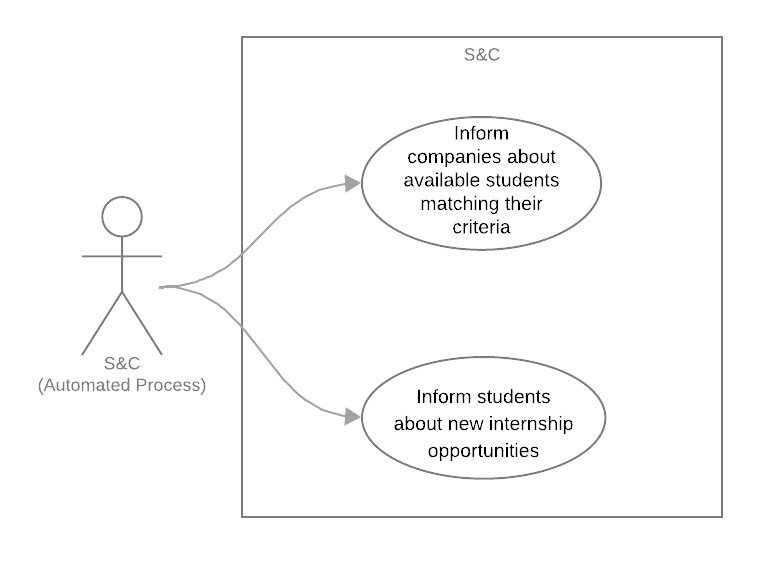
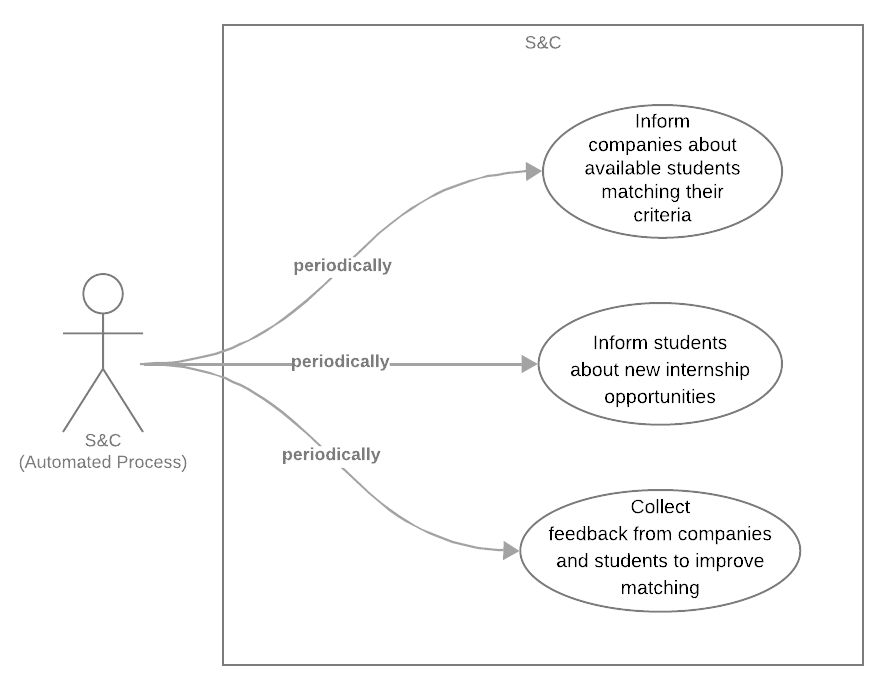
Fixed use case diagrams and sequence diagrams

diff --git a/RASD/LaTeX/Chapters/3_Specific_Requirements.tex b/RASD/LaTeX/Chapters/3_Specific_Requirements.tex
@@ -90,31 +90,15 @@ The communication interfaces needed by the system include the HTTPS protocol for
 
 \begin{figure}[H]
     \begin{center}
-        \includegraphics[width=0.6\linewidth]{UseCaseDiagrams/Student.png}
-        \caption{Use Cases Diagram for students.} 
-        \label{fig:StudentUC}%
+        \includegraphics[width=\linewidth]{UseCaseDiagrams/Company_Student_University.png}
+        \caption{Use Cases Diagram for company, student and university.} 
+        \label{fig:Company_Student_UniversityUC}%
     \end{center}
 \end{figure}
 
 \begin{figure}[H]
     \begin{center}
-        \includegraphics[width=0.8\linewidth]{UseCaseDiagrams/Company.png}
-        \caption{Use Cases Diagram for companies.} 
-        \label{fig:CompanyUC}%
-    \end{center}
-\end{figure}
-
-\begin{figure}[H]
-    \begin{center}
-        \includegraphics[width=0.6\linewidth]{UseCaseDiagrams/University.png}
-        \caption{Use Cases Diagram for universities.} 
-        \label{fig:UniversityUC}%
-    \end{center}
-\end{figure}
-
-\begin{figure}[H]
-    \begin{center}
-        \includegraphics[width=0.6\linewidth]{UseCaseDiagrams/SeC.png}
+        \includegraphics[width=0.8\linewidth]{UseCaseDiagrams/SeC.png}
         \caption{Use Cases Diagram for S\&C.} 
         \label{fig:SeCUC}%
     \end{center}
@@ -217,7 +201,7 @@ FATTO DA MIRKO SU DRRIVE
 
 \begin{figure}[H]
     \begin{center}
-        \includesvg[width=0.8\textwidth]{SequenceDiagrams/View_And_Update.svg}
+        \includesvg[width=0.9\textwidth]{SequenceDiagrams/View_And_Update.svg}
         \caption{View and update profile sequence diagram.}
         \label{fig:view_update_profile_seqd}%
     \end{center}
@@ -248,7 +232,7 @@ FATTO DA MIRKO SU DRRIVE
 
 \begin{figure}[H]
     \begin{center}
-        \includesvg[width=0.8\textwidth]{SequenceDiagrams/Search_Internships.svg}
+        \includesvg[width=\textwidth]{SequenceDiagrams/Search_Internships.svg}
         \caption{Search for internships sequence diagram.}
         \label{fig:search_internships_seqd}%
     \end{center}
@@ -280,7 +264,7 @@ FATTO DA MIRKO SU DRRIVE
 
 \begin{figure}[H]
     \begin{center}
-        \includesvg[width=0.8\textwidth]{SequenceDiagrams/Apply_Internship.svg}
+        \includesvg[width=0.9\textwidth]{SequenceDiagrams/Apply_Internship.svg}
         \caption{Apply for an internship sequence diagram.}
         \label{fig:apply_internship_seqd}%
     \end{center}
@@ -310,7 +294,7 @@ FATTO DA MIRKO SU DRRIVE
 
 \begin{figure}[H]
     \begin{center}
-        \includesvg[width=1\textwidth]{SequenceDiagrams/Monitor_Status.svg}
+        \includesvg[width=0.9\textwidth]{SequenceDiagrams/Monitor_Status.svg}
         \caption{Monitor the status of their applications sequence diagram.}
         \label{fig:monitor_status_seqd}%
     \end{center}
@@ -322,7 +306,7 @@ FATTO DA MIRKO SU DRRIVE
         \hline
         \textbf{Actor}            & Student (ST) \\
         \hline
-        \textbf{Entry conditions} & The user is logged into S\&C and has received at least one internship offer. \\
+        \textbf{Entry conditions} & The user is logged into S\&C. \\
         \hline
         \textbf{Event Flow}       & 1 - The user navigates to the "Offers" section. \\
         & 2 - S\&C retrieves the list of received offers. \\
@@ -332,7 +316,8 @@ FATTO DA MIRKO SU DRRIVE
         \hline
         \textbf{Exit condition}   & The offer status is updated as accepted or rejected. \\       
         \hline
-        \textbf{Exceptions}       & - Offer expired: S\&C notifies the user. \\
+        \textbf{Exceptions}       & - No offers available: S\&C notifies the user. \\
+                                  & - Offer expired: S\&C notifies the user. \\
                                   & - System unavailable: S\&C informs the user and retries later. \\
         \hline
         \caption{Accept or reject internship offers}
@@ -342,7 +327,7 @@ FATTO DA MIRKO SU DRRIVE
 
 \begin{figure}[H]
     \begin{center}
-        \includesvg[width=0.8\textwidth]{SequenceDiagrams/Accept_Reject_Offers.svg}
+        \includesvg[width=0.9\textwidth]{SequenceDiagrams/Accept_Reject_Offers.svg}
         \caption{Accept or reject internship offers sequence diagram.}
         \label{fig:accept_reject_offers_seqd}%
     \end{center}
@@ -421,11 +406,11 @@ FATTO DA MIRKO SU DRIVE
         \hline
         \textbf{Entry conditions} & The CP is correctly logged in. The CP has decided to create a internship. The CP is on his profile page. \\
         \hline
-        \textbf{Event Flow}     & 1- The CP clicks on "Publish a Internship"                                button.\\
-                                & 2- S\&C returns the publish internship form.\\
-                                & 3- The CP writes the internship name, specify the application domain, tasks to be performed, relevant adopted technologies ad terms offered\\
-                                & 4- S\&C stores the data of the internship and add it to the CP's internship list\\
-                                & 5- S\&C sends a notication to the STs that might be interested.\\
+        \textbf{Event Flow}     & 1 - The CP clicks on "Publish a Internship"                                button.\\
+                                & 2 - S\&C returns the publish internship form.\\
+                                & 3 - The CP writes the internship name, specify the application domain, tasks to be performed, relevant adopted technologies ad terms offered\\
+                                & 4 - S\&C stores the data of the internship and add it to the CP's internship list\\
+                                & 5 - S\&C sends a notication to the STs that might be interested.\\
         \hline
         \textbf{Exit condition}   & The internship is correctly created and a confirmation message is shown to the CP. \\       
         \hline
@@ -438,7 +423,7 @@ FATTO DA MIRKO SU DRIVE
 
 \begin{figure}[H]
     \begin{center}
-        \includesvg[width=\textwidth]{SequenceDiagrams/Create_internship.svg}
+        \includesvg[width=\textwidth]{SequenceDiagrams/Create_Internship.svg}
         \caption{Create and publish internships sequence diagram.}
         \label{fig:create_internship_seqd}%
     \end{center}
@@ -455,10 +440,10 @@ FATTO DA MIRKO SU DRIVE
         \hline
         \textbf{Entry conditions} & The company is logged into S\&C and has at least one published internship.\\
         \hline
-        \textbf{Event Flow}     & 1- The company navigates to the "Published                              Internships" section. \\
-                                & 2- S\&C retrieves the list of internships published by the company. \\
-                                & 3- The company selects an internship to view its details. \\
-                                & 4- S\&C retrieves internship's details and the list of suggested students.\\
+        \textbf{Event Flow}     & 1 - The company navigates to the "Published                              Internships" section. \\
+                                & 2 - S\&C retrieves the list of internships published by the company. \\
+                                & 3 - The company selects an internship to view its details. \\
+                                & 4 - S\&C retrieves internship's details and the list of suggested students.\\
         \hline
         \textbf{Exit condition}     & The company successfully views the list of                                suggested students.\\       
         \hline
@@ -472,7 +457,7 @@ FATTO DA MIRKO SU DRIVE
 
 \begin{figure}[H]
     \begin{center}
-        \includesvg[width=\textwidth]{SequenceDiagrams/View_recommended_sudents.svg}
+        \includesvg[width=\textwidth]{SequenceDiagrams/View_Recommended_Students.svg}
         \caption{View recommended students for internships sequence diagram.}
         \label{fig:view_recommended_students_seqd}%
     \end{center}
@@ -486,11 +471,11 @@ FATTO DA MIRKO SU DRIVE
         \hline
         \textbf{Entry conditions} & The company is logged into S\&C. The company should be on a specific internship page to select a student’s name from the recommended students list.\\
         \hline
-        \textbf{Event Flow}     & 1- The company click on a student's name. \\
-                                & 2- S\&C returns the profile page of the selected student. \\
-                                & 3- The company click on the "invite" button. \\
-                                & 4- S\&C sends to the student a request of application.\\
-                                & 5- S\&C redirect the company to the "Progress Page" of the application.\\
+        \textbf{Event Flow}     & 1 - The company click on a student's name. \\
+                                & 2 - S\&C returns the profile page of the selected student. \\
+                                & 3 - The company click on the "invite" button. \\
+                                & 4 - S\&C sends to the student a request of application.\\
+                                & 5 - S\&C redirect the company to the "Progress Page" of the application.\\
         \hline
         \textbf{Exit condition}     & The company successfully views profile of                                the student and sends correctly the notification.\\       
         \hline
@@ -504,7 +489,7 @@ FATTO DA MIRKO SU DRIVE
 
 \begin{figure}[H]
     \begin{center}
-        \includesvg[width=\textwidth]{SequenceDiagrams/Contact_students.svg}
+        \includesvg[width=\textwidth]{SequenceDiagrams/Contact_Students.svg}
         \caption{Contact students for internships sequence diagram.}
         \label{fig:contact_students_for_internships_seqd}%
     \end{center}
@@ -518,16 +503,16 @@ FATTO DA MIRKO SU DRIVE
         \hline
         \textbf{Entry conditions} & The company is logged into S\&C. The company wants to review apply requests.\\
         \hline
-        \textbf{Event Flow}     & 1- The company navigates to the "Published                                                        Internships" section. \\
-                                & 2- S\&C retrieves the list of internships published by the company. \\
-                                & 3- The company selects an internship to view its details. \\
-                                & 4- S\&C retrieves internship's details and the list of apply requests.\\
-                                & 5- Company click on the students name.\\
-                                & 6- S\&C returns the profile page of the selected student.\\
-                                & 7- Company check the profile of the student and his CV.\\
-                                & 8- Company decide to accept or reject the apply request.\\
-                                & 9- S\&C send a notification to the student with the company’s decision.\\
-                                & 10- If the company has accepted, S\&C authorizes the assignment of tasks by the company.\\
+        \textbf{Event Flow}     & 1 - The company navigates to the "Published                                                        Internships" section. \\
+                                & 2 - S\&C retrieves the list of internships published by the company. \\
+                                & 3 - The company selects an internship to view its details. \\
+                                & 4 - S\&C retrieves internship's details and the list of apply requests.\\
+                                & 5 - Company click on the students name.\\
+                                & 6 - S\&C returns the profile page of the selected student.\\
+                                & 7 - Company check the profile of the student and his CV.\\
+                                & 8 - Company decide to accept or reject the apply request.\\
+                                & 9 - S\&C send a notification to the student with the company’s decision.\\
+                                & 10 - If the company has accepted, S\&C authorizes the assignment of tasks by the company.\\
         \hline
         \textbf{Exit condition}     & The company successfully accept the request and the student receive the notification.\\       
         \hline
@@ -541,7 +526,7 @@ FATTO DA MIRKO SU DRIVE
 
 \begin{figure}[H]
     \begin{center}
-        \includesvg[width=\textwidth]{SequenceDiagrams/Accept_student_applications.svg}
+        \includesvg[width=\textwidth]{SequenceDiagrams/Accept_Student_Applications.svg}
         \caption{Accept student applications sequence diagram.}
         \label{fig:accept_student_applications_seqd}%
     \end{center}
@@ -555,11 +540,11 @@ FATTO DA MIRKO SU DRIVE
         \hline
         \textbf{Entry conditions} & The company is logged into S\&C. The company wants to send questionnaires to students.\\
         \hline
-        \textbf{Event Flow}     & 1- The company goes to a student’s application "Progress Page". \\
-                                & 2- The company click the "create task" button. \\
-                                & 3- S\&C returns the task form.\\
-                                & 4- Company fill the form with task’s requirements, delivery instruction and deadline.\\
-                                & 5-  S\&C adds task to the Progress Page of the application and notify the ST about new assignments.\\
+        \textbf{Event Flow}     & 1 - The company goes to a student’s application "Progress Page". \\
+                                & 2 - The company click the "create task" button. \\
+                                & 3 - S\&C returns the task form.\\
+                                & 4 - Company fill the form with task’s requirements, delivery instruction and deadline.\\
+                                & 5 -  S\&C adds task to the Progress Page of the application and notify the ST about new assignments.\\
         \hline
         \textbf{Exit condition}     & The company successfully add the task and the student receive the notification.\\       
         \hline
@@ -573,7 +558,7 @@ FATTO DA MIRKO SU DRIVE
 
 \begin{figure}[H]
     \begin{center}
-        \includesvg[width=\textwidth]{SequenceDiagrams/Submit_questionnaires_for_students.svg}
+        \includesvg[width=\textwidth]{SequenceDiagrams/Submit_Questionnaires_Students.svg}
         \caption{Submit questionnaires for students sequence diagram.}
         \label{fig:submit_questionnaires_for_students_seqd}%
     \end{center}
@@ -587,12 +572,12 @@ FATTO DA MIRKO SU DRIVE
         \hline
         \textbf{Entry conditions} & The company is logged into S\&C. The company wants to finalize the selection process.\\
         \hline
-        \textbf{Event Flow}    & 1- The company navigates to the "Published                                                        Internships" section. \\
-                                & 2- S\&C retrieves the list of internships published by the company. \\
-                                & 3- The company selects an internship to view its details. \\
-                                & 4- S\&C retrieves internship's details and the list of applicant students.\\
-                                & 5- The company selects students.\\
-                                & 6- S\&C add selected student to the internship’s list and notifies both selected and rejected students.\\
+        \textbf{Event Flow}    & 1 - The company navigates to the "Published                                                        Internships" section. \\
+                                & 2 - S\&C retrieves the list of internships published by the company. \\
+                                & 3 - The company selects an internship to view its details. \\
+                                & 4 - S\&C retrieves internship's details and the list of applicant students.\\
+                                & 5 - The company selects students.\\
+                                & 6 - S\&C add selected student to the internship’s list and notifies both selected and rejected students.\\
         \hline
         \textbf{Exit condition}     & The company successfully select the students and all the students receive the notification.\\       
         \hline
@@ -606,7 +591,7 @@ FATTO DA MIRKO SU DRIVE
 
 \begin{figure}[H]
     \begin{center}
-        \includesvg[width=\textwidth]{SequenceDiagrams/Finalize_the_selection_process.svg}
+        \includesvg[width=\textwidth]{SequenceDiagrams/Finalize_Selection_Process.svg}
         \caption{Finalize the selection process sequence diagram.}
         \label{fig:finalize_the_selection_process_seqd}%
     \end{center}
@@ -627,7 +612,7 @@ TODO
 \subsubsection*{UC\cuc . Cancel problematic internships}
 TODO
 
-\subsubsection*{UC\cuc . Collect and review feedback from companies and students}
+\subsubsection*{UC\cuc . Collect feedback from companies and students to improve matching}
 TODO
 
 \subsubsection*{UC\cuc . Inform companies about available students matching their criteria}
